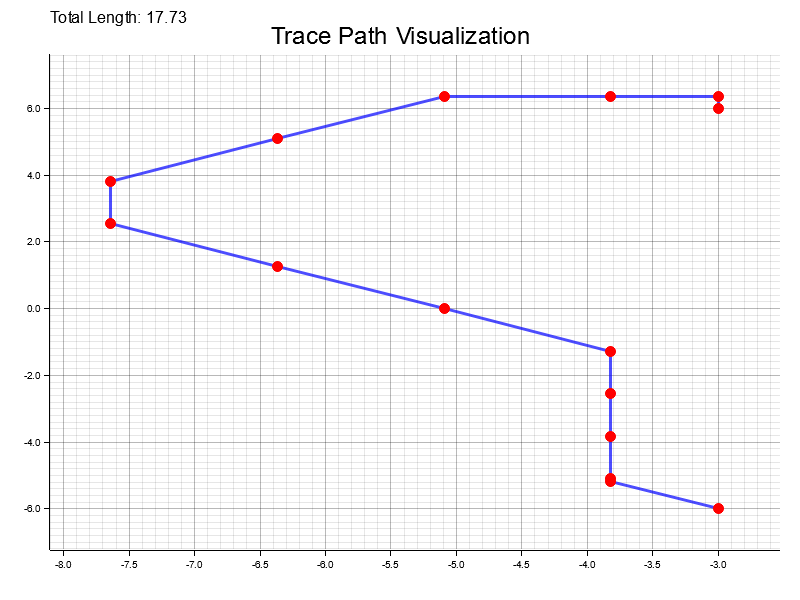
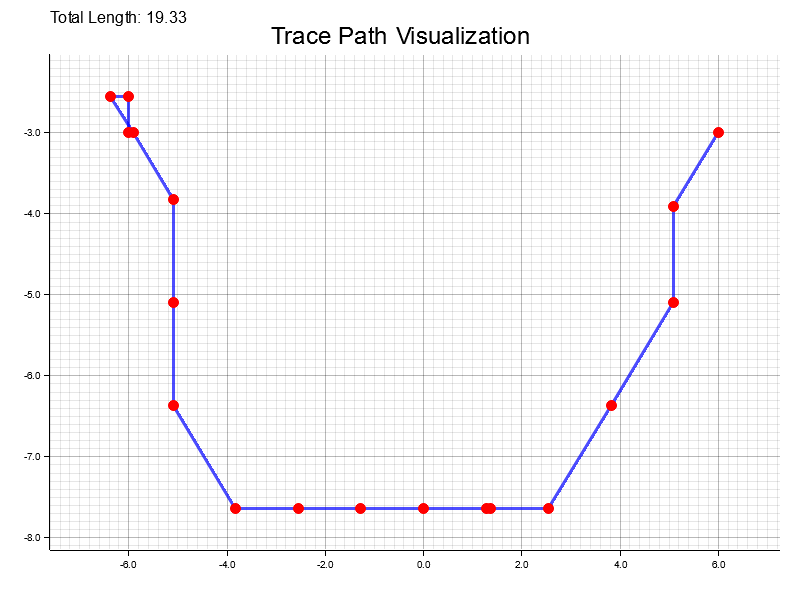
post processing update

Changed region(s): [[0.0312, 0.09, 0.9688, 0.96], [0.1875, 0.0, 0.2188, 0.03]]

diff --git a/router/src/post_process.rs b/router/src/post_process.rs
@@ -1,7 +1,7 @@
 use crate::block_or_sleep::{block_or_sleep, block_thread};
 use shared::{
     binary_heap_item::BinaryHeapItem,
-    hyperparameters::{ASTAR_STRIDE, DISPLAY_ASTAR, ESTIMATE_COEFFICIENT},
+    hyperparameters::{ASTAR_STRIDE, DISPLAY_OPTIMIZATION},
     pcb_render_model::{PcbRenderModel, RenderableBatch, ShapeRenderable, UpdatePcbRenderModel},
     prim_shape::{CircleShape, PrimShape, RectangleShape},
     trace_path::{Direction, TraceAnchors, TracePath, TraceSegment},
@@ -107,6 +107,18 @@ fn is_diagonal(d: (FixedPoint, FixedPoint)) -> bool {
     d.0 != 0.0 && d.1 != 0.0 && d.0.abs() == d.1.abs()
 }
 
+fn is_convex(
+    d01: (FixedPoint, FixedPoint),
+    d12: (FixedPoint, FixedPoint),
+    d23: (FixedPoint, FixedPoint),
+) -> bool {
+    (is_axis(d01)
+        && is_diagonal(d12)
+        && is_axis(d23)
+        && (d01.0 * d23.0 == FixedPoint::ZERO && d01.1 * d23.1 == FixedPoint::ZERO))
+    //|| (is_diagonal(d01) && is_axis(d12) && is_diagonal(d23) && (d01.0.signum() != d23.0.signum() || d01.1.signum() != d23.1.signum()))
+}
+
 fn rebuild_segments(anchors: &Vec<FixedVec2>, width: f32, clearance: f32) -> Vec<TraceSegment> {
     let mut segments = Vec::new();
     for i in 0..anchors.len() - 1 {
@@ -131,7 +143,7 @@ pub fn optimize_path(
     trace_clearance: f32,
 ) -> TracePath {
     // display input trace path and optimized trace path on the PCB render model
-    if DISPLAY_ASTAR {
+    if DISPLAY_OPTIMIZATION {
         draw_tracepath_to_file(trace_path, Path::new("input_trace_path.png"), 800, 600)
             .expect("Failed to draw input trace path");
         println!("input trace path drawn to input_trace_path.png");
@@ -146,65 +158,179 @@ pub fn optimize_path(
 
     let mut success = false;
     let mut optimized = path.clone();
-    let mut i = 0;
-    while i < optimized.len() - 3 {
-        // trace shifting
-        let seg1 = (&optimized[i], &optimized[i + 1]);
-        let seg2 = (&optimized[i + 2], &optimized[i + 3]);
+    let mut i = 1;
 
-        let dx1 = seg1.1.x - seg1.0.x;
-        let dy1 = seg1.1.y - seg1.0.y;
-        let dx2 = seg2.1.x - seg2.0.x;
-        let dy2 = seg2.1.y - seg2.0.y;
+    while i < optimized.len() - 2 {
+        // tight wrapping
+        let p0 = optimized[i - 1];
+        let p1 = optimized[i];
+        let p2 = optimized[i + 1];
+        let p3 = optimized[i + 2];
 
-        if dx1 * dy2 == dx2 * dy1 {
-            // debug
-            if DISPLAY_ASTAR {
+        let d01 = (p1.x - p0.x, p1.y - p0.y);
+        let d12 = (p2.x - p1.x, p2.y - p1.y);
+        let d23 = (p3.x - p2.x, p3.y - p2.y);
+
+        if is_convex(d01, d12, d23) {
+            // vertical-diagonal-horizontal or horizontal-diagonal-vertical
+            // diagonal-axis-diagonal with different directions {
+
+            let len_d01 = FixedPoint::max(d01.0.abs(), d01.1.abs());
+            let len_d23 = FixedPoint::max(d23.0.abs(), d23.1.abs());
+            let max_length = FixedPoint::min(len_d01, len_d23);
+            let num_steps = (max_length / FixedPoint::DELTA / FixedPoint::from_num(2.0))
+                .ceil()
+                .to_num();
+            if DISPLAY_OPTIMIZATION {
                 println!(
-                    "Optimizing segments {}-{} and {}-{} due to parallelism",
-                    i,
-                    i + 1,
-                    i + 2,
-                    i + 3
+                    "Enter is_convex: {:?} -> {:?} -> {:?}, max_length: {}, num_steps: {}",
+                    (p0, p1),
+                    (p1, p2),
+                    (p2, p3),
+                    max_length,
+                    num_steps
                 );
             }
+            for step_idx in 0..=num_steps {
+                let step =
+                    FixedPoint::from_num(step_idx) * FixedPoint::DELTA * FixedPoint::from_num(2.0);
+                let step = FixedPoint::min(step, max_length);
+                let new_point1 = FixedVec2 {
+                    x: p1.x - d01.0 / len_d01 * (max_length - step),
+                    y: p1.y - d01.1 / len_d01 * (max_length - step),
+                };
+                let new_point2 = FixedVec2 {
+                    x: p2.x + d23.0 / len_d23 * (max_length - step),
+                    y: p2.y + d23.1 / len_d23 * (max_length - step),
+                };
+                if DISPLAY_OPTIMIZATION {
+                    println!(
+                        "Temp optimized points: {:?} -> {:?}",
+                        (p1, p2),
+                        (new_point1, new_point2)
+                    );
+                }
 
-            let new_point1 = FixedVec2 {
-                x: seg1.0.x + seg2.0.x - seg1.1.x,
-                y: seg1.0.y + seg2.0.y - seg1.1.y,
-            };
-            let new_point2 = FixedVec2 {
-                x: seg2.1.x - seg2.0.x + seg1.1.x,
-                y: seg2.1.y - seg2.0.y + seg1.1.y,
-            };
-
-            let flag1 = !check_collision(optimized[i], new_point1, trace_width, trace_clearance)
-                && !check_collision(new_point1, optimized[i + 2], trace_width, trace_clearance);
-            let flag2 =
-                !check_collision(optimized[i + 1], new_point2, trace_width, trace_clearance)
-                    && !check_collision(new_point2, optimized[i + 3], trace_width, trace_clearance);
-
-            if flag1 {
-                assert_ne!((new_point1.x - new_point1.y) % 2, 0);
-                optimized[i + 1] = new_point1;
-                optimized.remove(i + 2);
-                success = true;
-            } else if flag2 {
-                optimized[i + 2] = new_point2;
-                optimized.remove(i + 1);
-                success = true;
+                if (p0 == new_point1
+                    || !check_collision(p0, new_point1, trace_width, trace_clearance))
+                    && !check_collision(new_point1, new_point2, trace_width, trace_clearance)
+                    && (new_point2 == p3
+                        || !check_collision(new_point2, p3, trace_width, trace_clearance))
+                {
+                    length = length
+                        - ((p1 - p0).length().to_num::<f64>()
+                            + (p3 - p2).length().to_num::<f64>()
+                            + (p2 - p1).length().to_num::<f64>())
+                        + (new_point1 - p0).length().to_num::<f64>()
+                        + (p3 - new_point2).length().to_num::<f64>()
+                        + (new_point2 - new_point1).length().to_num::<f64>();
+                    optimized[i] = new_point1;
+                    optimized[i + 1] = new_point2;
+                    if new_point2 == p3 {
+                        // If we reached the maximum length, we can remove the redundant points
+                        optimized.remove(i + 2);
+                        i -= 1;
+                    }
+                    if new_point1 == p0 {
+                        optimized.remove(i - 1);
+                        i -= 1;
+                    }
+                    if DISPLAY_OPTIMIZATION {
+                        println!(
+                            "Optimized points: {:?} -> {:?}",
+                            (p1, p2),
+                            (new_point1, new_point2)
+                        );
+                    }
+                    break;
+                }
             }
         }
         i += 1;
-        if i >= optimized.len() - 3 {
-            if success {
-                i = 0; // restart from the beginning if any optimization was made
-                success = false;
-            }
-        }
     }
 
-    if DISPLAY_ASTAR {
+    // i = 0;
+    // while i < optimized.len() - 3 {
+    //     // Check for parallel segments that can be optimized
+    //     // trace shifting
+    //     let seg1 = (&optimized[i], &optimized[i + 1]);
+    //     let seg2 = (&optimized[i + 2], &optimized[i + 3]);
+
+    //     let dx1 = seg1.1.x - seg1.0.x;
+    //     let dy1 = seg1.1.y - seg1.0.y;
+    //     let dx2 = seg2.1.x - seg2.0.x;
+    //     let dy2 = seg2.1.y - seg2.0.y;
+
+    //     if dx1 * dy2 == dx2 * dy1 {
+    //         // debug
+    //         if DISPLAY_OPTIMIZATION {
+    //             println!(
+    //                 "Optimizing segments {}-{} and {}-{} due to parallelism",
+    //                 i,
+    //                 i + 1,
+    //                 i + 2,
+    //                 i + 3
+    //             );
+    //         }
+
+    //         let new_point1 = FixedVec2 {
+    //             x: seg1.0.x + seg2.0.x - seg1.1.x,
+    //             y: seg1.0.y + seg2.0.y - seg1.1.y,
+    //         };
+    //         let new_point2 = FixedVec2 {
+    //             x: seg2.1.x - seg2.0.x + seg1.1.x,
+    //             y: seg2.1.y - seg2.0.y + seg1.1.y,
+    //         };
+
+    //         let flag1 = !check_collision(optimized[i], new_point1, trace_width, trace_clearance)
+    //             && !check_collision(new_point1, optimized[i + 2], trace_width, trace_clearance);
+    //         let flag2 =
+    //             !check_collision(optimized[i + 1], new_point2, trace_width, trace_clearance)
+    //                 && !check_collision(new_point2, optimized[i + 3], trace_width, trace_clearance);
+
+    //         if flag1 {
+    //             optimized[i + 1] = new_point1;
+    //             optimized.remove(i + 2);
+    //             success = true;
+    //         } else if flag2 {
+    //             optimized[i + 2] = new_point2;
+    //             optimized.remove(i + 1);
+    //             success = true;
+    //         }
+    //     }
+    //     i += 1;
+    //     if i >= optimized.len() - 3 {
+    //         if success {
+    //             i = 0; // restart from the beginning if any optimization was made
+    //             success = false;
+    //         }
+    //     }
+    // }
+
+    // success = false;
+    // i = 0;
+    // while i < optimized.len() - 2 {
+    //     // Check for inline segments that can be optimized
+    //     let seg1 = (&optimized[i], &optimized[i + 1]);
+    //     let seg2 = (&optimized[i + 1], &optimized[i + 2]);
+    //     let dx1 = seg1.1.x - seg1.0.x;
+    //     let dy1 = seg1.1.y - seg1.0.y;
+    //     let dx2 = seg2.1.x - seg2.0.x;
+    //     let dy2 = seg2.1.y - seg2.0.y;
+    //     if dx1 * dy2 == dx2 * dy1 {
+    //         optimized.remove(i + 1);
+    //         success = true;
+    //     }
+    //     i += 1;
+    //     if i >= optimized.len() - 2 {
+    //         if success {
+    //             i = 0; // restart from the beginning if any optimization was made
+    //             success = false;
+    //         }
+    //     }
+    // }
+
+    if DISPLAY_OPTIMIZATION {
         draw_tracepath_to_file(
             &TracePath {
                 anchors: TraceAnchors(optimized.clone()),
@@ -220,60 +346,6 @@ pub fn optimize_path(
         block_thread();
     }
 
-    // i = 1;
-    // while i < optimized.len() - 2 {
-    //     // tight wrapping
-    //     let p0 = optimized[i - 1];
-    //     let p1 = optimized[i];
-    //     let p2 = optimized[i + 1];
-    //     let p3 = optimized[i + 2];
-
-    //     let d01 = (p1.x - p0.x, p1.y - p0.y);
-    //     let d12 = (p2.x - p1.x, p2.y - p1.y);
-    //     let d23 = (p3.x - p2.x, p3.y - p2.y);
-
-    //     if (is_axis(d01) && is_diagonal(d12) && is_axis(d23) && (d01.0 * d23.0 == FixedPoint::ZERO)) ||  // vertical-diagonal-horizontal or horizontal-diagonal-vertical
-    //        (is_diagonal(d01) && is_axis(d12) && is_diagonal(d23) && ((d01.0.signum() != d23.0.signum()) || (d01.1.signum() != d23.1.signum())))
-    //     {
-    //         // diagonal-axis-diagonal with different directions {
-
-    //         let len_d01 = FixedPoint::max(d01.0.abs(), d01.1.abs());
-    //         let len_d23 = FixedPoint::max(d23.0.abs(), d23.1.abs());
-    //         let max_length = FixedPoint::min(len_d01, len_d23);
-    //         let num_steps = (max_length / FixedPoint::DELTA).ceil().to_num();
-
-    //         for step_idx in 0..=num_steps {
-    //             let step = FixedPoint::from_num(step_idx) * FixedPoint::DELTA;
-    //             let step = FixedPoint::min(step, max_length);
-
-    //             let new_point1 = FixedVec2 {
-    //                 x: p1.x - d01.0 * (max_length - step) / len_d01,
-    //                 y: p1.y - d01.1 * (max_length - step) / len_d01,
-    //             };
-    //             let new_point2 = FixedVec2 {
-    //                 x: p2.x + d23.0 * (max_length - step) / len_d23,
-    //                 y: p2.y + d23.1 * (max_length - step) / len_d23,
-    //             };
-
-    //             if !check_collision(p0, new_point1, trace_width, trace_clearance)
-    //                 && !check_collision(new_point1, new_point2, trace_width, trace_clearance)
-    //                 && !check_collision(new_point2, p3, trace_width, trace_clearance)
-    //             {
-    //                 length = length
-    //                     - ((p1 - p0).length().to_num::<f64>()
-    //                         + (p3 - p2).length().to_num::<f64>()
-    //                         + (p2 - p1).length().to_num::<f64>())
-    //                     + (new_point1 - p0).length().to_num::<f64>()
-    //                     + (p3 - new_point2).length().to_num::<f64>()
-    //                     + (new_point2 - new_point1).length().to_num::<f64>();
-    //                 optimized[i] = new_point1;
-    //                 optimized[i + 1] = new_point2;
-    //                 break;
-    //             }
-    //         }
-    //     }
-    //     i += 1;
-    // }
     let segments = rebuild_segments(&optimized, trace_width, trace_clearance);
     TracePath {
         anchors: TraceAnchors(optimized),

diff --git a/router/src/astar.rs b/router/src/astar.rs
@@ -14,7 +14,7 @@ use crate::post_process::optimize_path;
 
 use shared::{
     binary_heap_item::BinaryHeapItem,
-    hyperparameters::{ASTAR_STRIDE, DISPLAY_ASTAR, ESTIMATE_COEFFICIENT},
+    hyperparameters::{ASTAR_STRIDE, DISPLAY_ASTAR, ESTIMATE_COEFFICIENT, MAX_TRIALS},
     pcb_render_model::{PcbRenderModel, RenderableBatch, ShapeRenderable, UpdatePcbRenderModel},
     prim_shape::{CircleShape, PrimShape, RectangleShape},
     trace_path::{Direction, TraceAnchors, TracePath, TraceSegment},

diff --git a/shared/src/hyperparameters.rs b/shared/src/hyperparameters.rs
@@ -21,6 +21,7 @@ pub const FOURTH_ITERATION_NUM_TRACES: usize = 2;
 
 pub const BLOCK_THREAD: bool = false; // Whether to block the thread when waiting for a trace to be generated
 pub const DISPLAY_ASTAR: bool = false; // Whether to display the A* search process
+pub const DISPLAY_OPTIMIZATION: bool = false; // Whether to display the optimization process
 pub const DISPLAY_PERIOD_MILLIS: u64 = 10;
 
 pub const MAX_ITERATION: NonZeroUsize =
